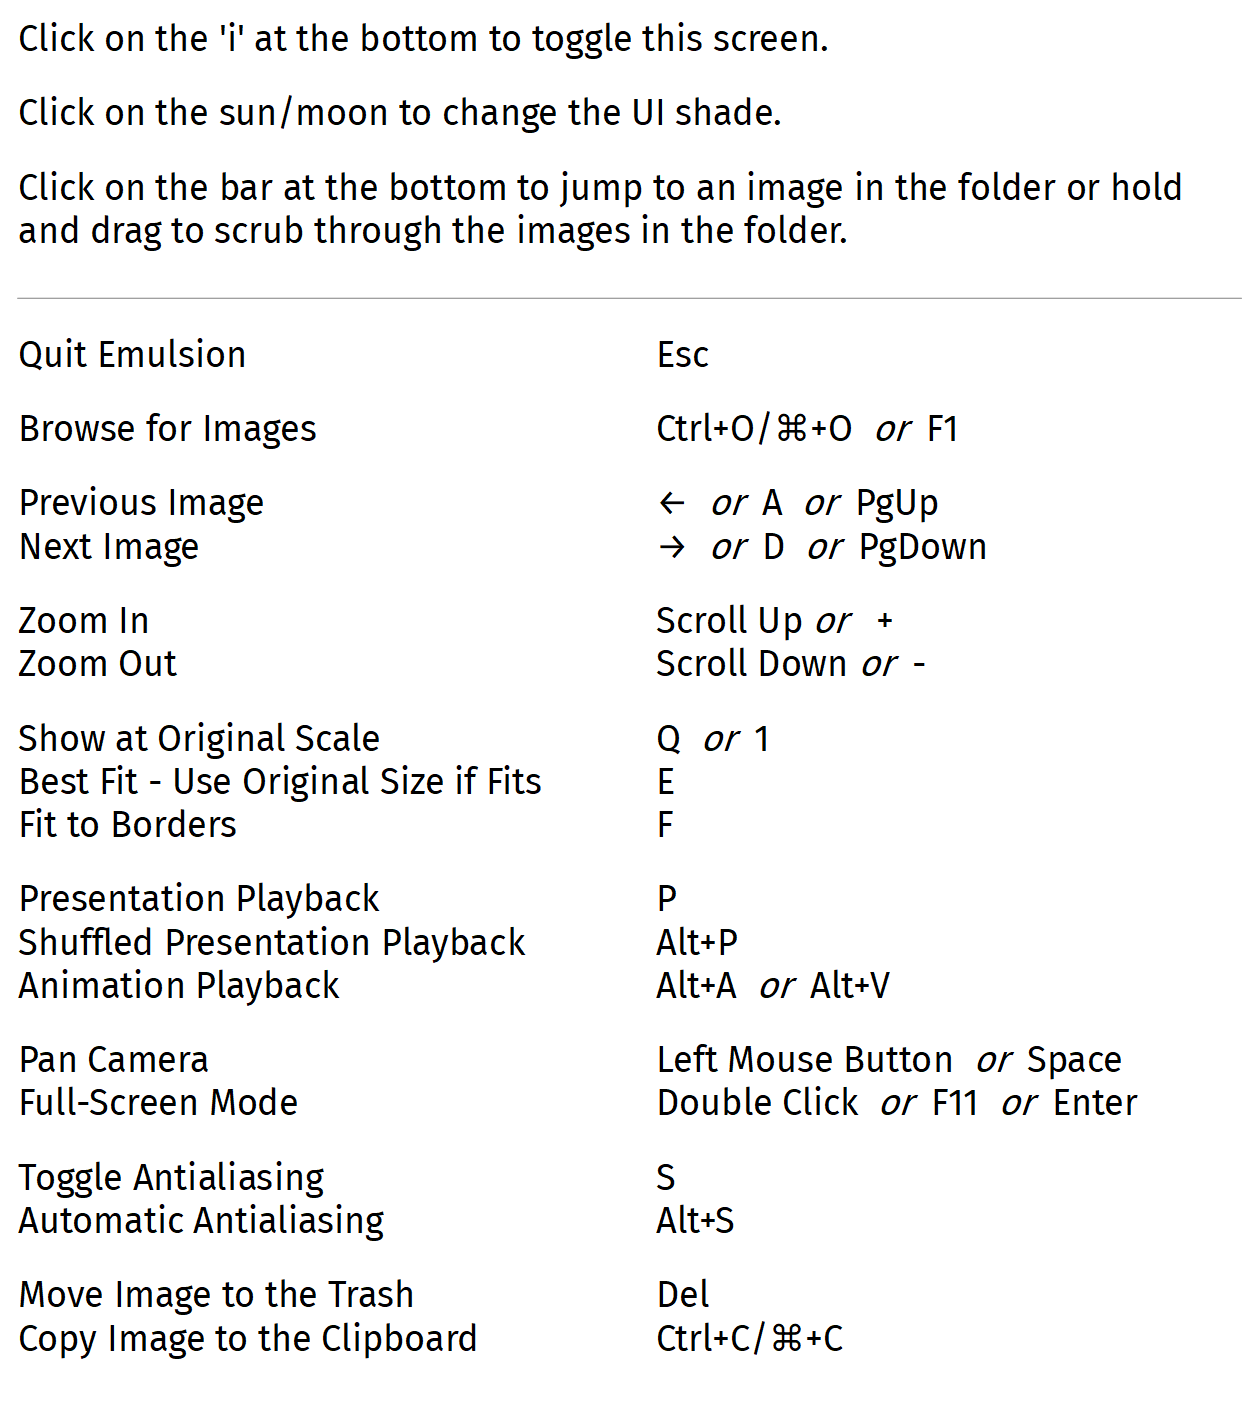
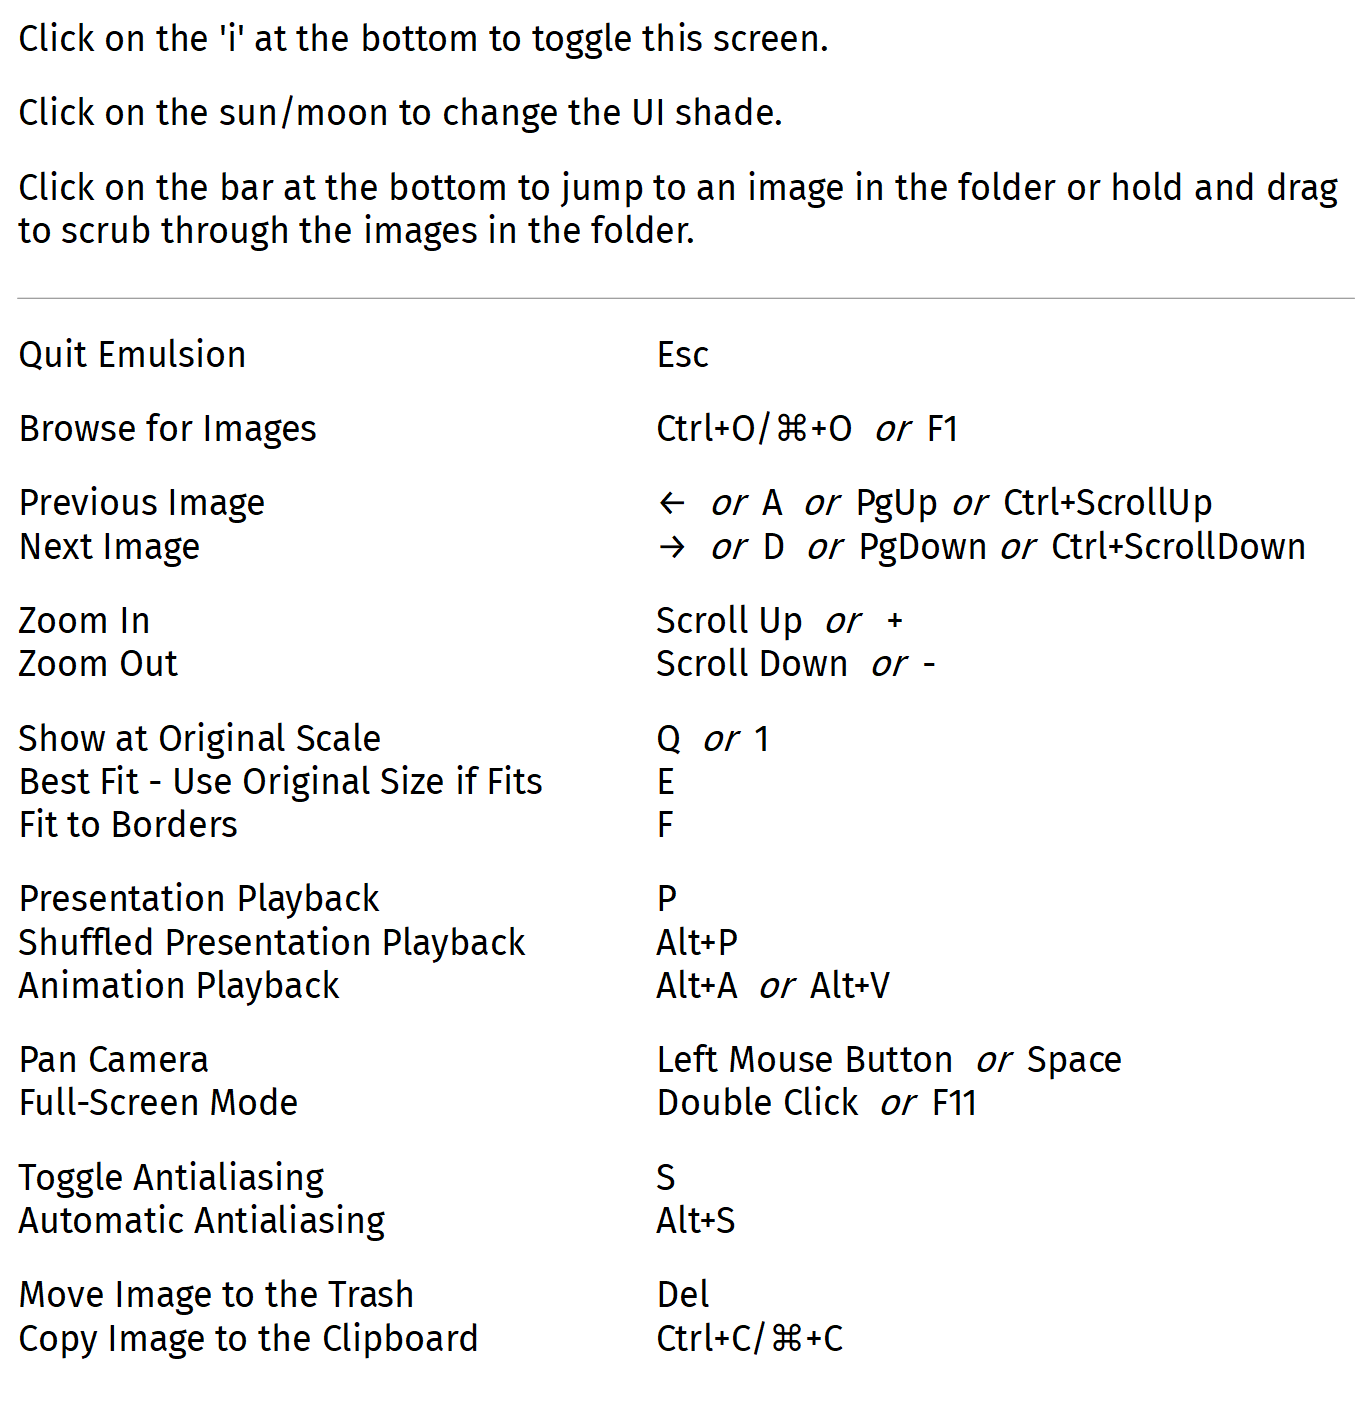
Hotkeys: Ctrl-Scrollwheel can now be used to navigate the images in the folder

diff --git a/src/widgets/picture_widget.rs b/src/widgets/picture_widget.rs
@@ -817,7 +817,23 @@ impl Widget for PictureWidget {
 			EventKind::MouseScroll { delta } => {
 				let mut borrowed = self.data.borrow_mut();
 				let delta = delta.vec.y * 0.375;
-				borrowed.zoom_image(event.cursor_pos, delta);
+				
+				if event.modifiers.ctrl() {
+					// Holding Control allows scrolling through the images in the directory instead
+					// Note: Order of prev/next follows what's down with the page up/down keys
+					if delta > 0.0 {
+						borrowed.playback_manager.request_load(LoadRequest::LoadPrevious);
+						borrowed.render_validity.invalidate();
+					}
+					else {
+						borrowed.playback_manager.request_load(LoadRequest::LoadNext);
+						borrowed.render_validity.invalidate();
+					}
+				}
+				else {
+					// Not holding any modifier keys does normal Zoom In/Out
+					borrowed.zoom_image(event.cursor_pos, delta);
+				}
 			}
 			EventKind::ReceivedCharacter(ch) => {
 				//println!("Got char {}", ch);

diff --git a/src/clipboard_handler.rs b/src/clipboard_handler.rs
@@ -106,6 +106,8 @@ impl ClipboardHandler {
 			}
 			let result = complex_load_image(&request_path, false, 0, |frame| {
 				if let LoadResult::Frame { mut image, orientation, .. } = frame {
+					// NOTE: The following code is only called when copying images to the clipboard
+					// TODO: Try to read from the image data actually displayed instead? We cannot copy manually flipped images otherwise!
 					if let Ok(clipboard) = &mut clipboard {
 						// Note: the imageops functions use clockwise rotation whereas the
 						// `Orientation` type describes counter-clockwise rotation.

diff --git a/README.md b/README.md
@@ -24,6 +24,7 @@ After trying a few of the Rust-based image viewers currently on GitHub (as of De
  * Additional hotkeys:
    - `i` = Toggle usage panel
    - `+`/`-` = Zoom in/out
+   - `Ctrl+Scroll Up/Down` = Prev/Next Image
 
 
 **Functionality I'd still like to add**:
